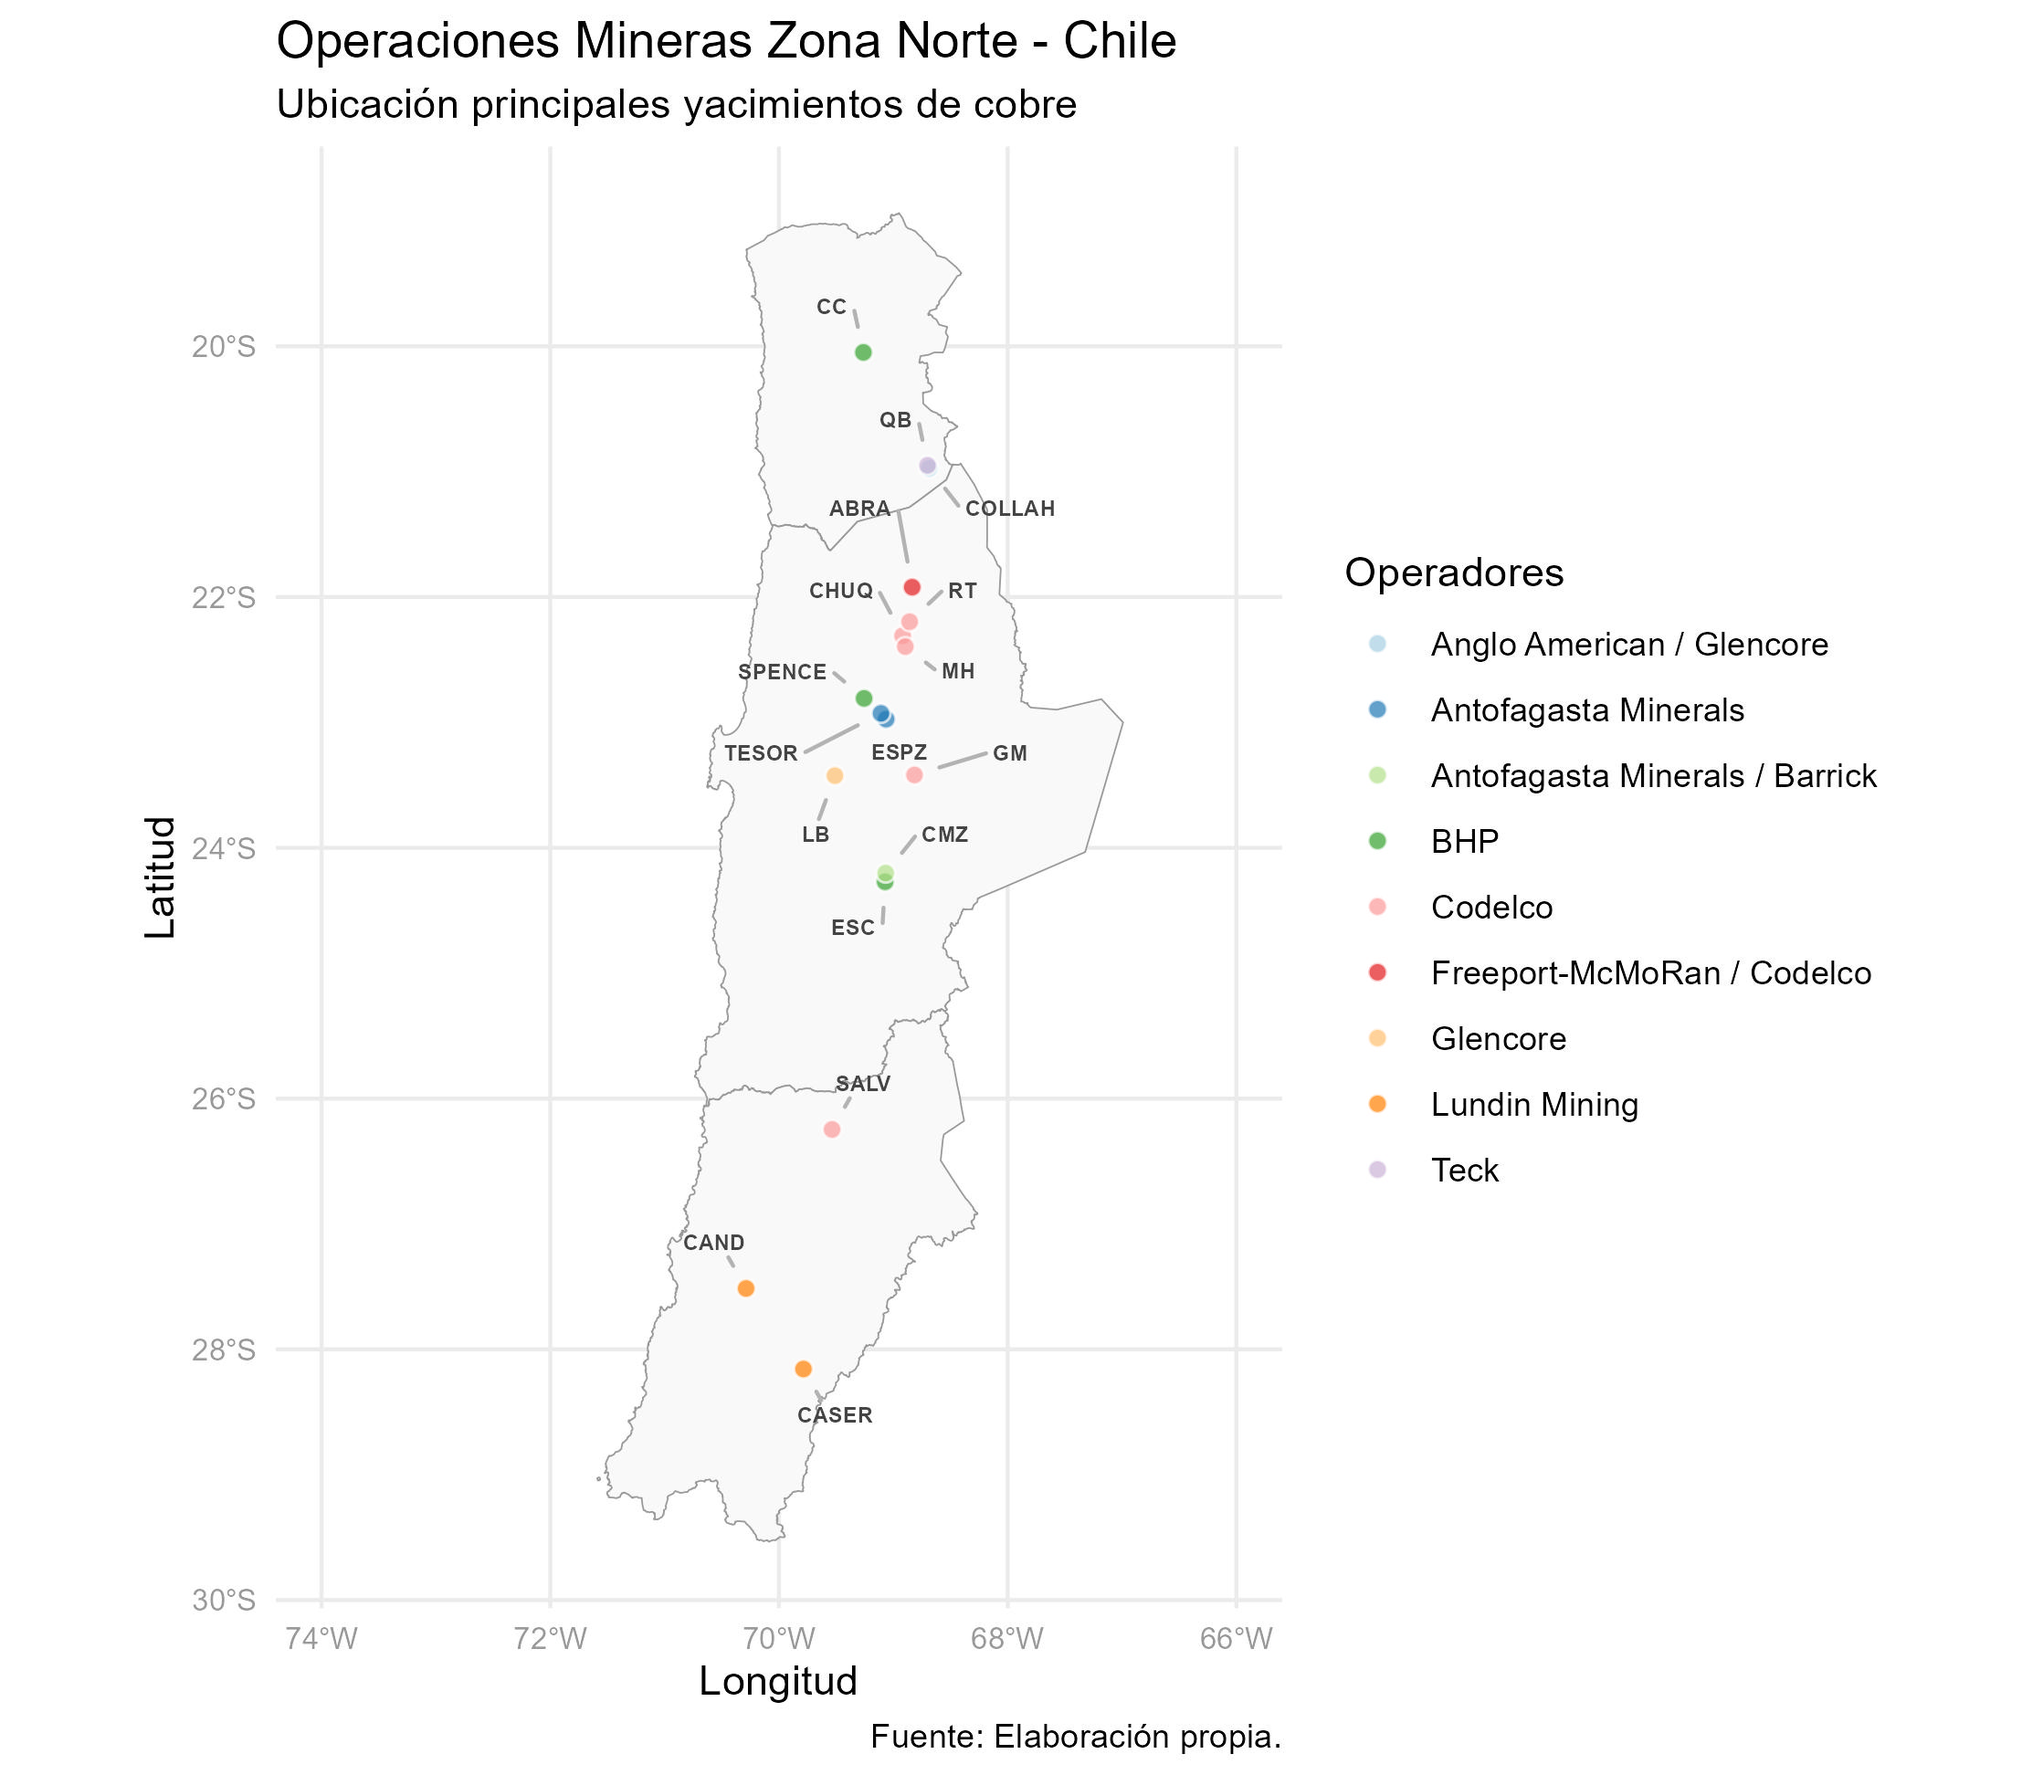
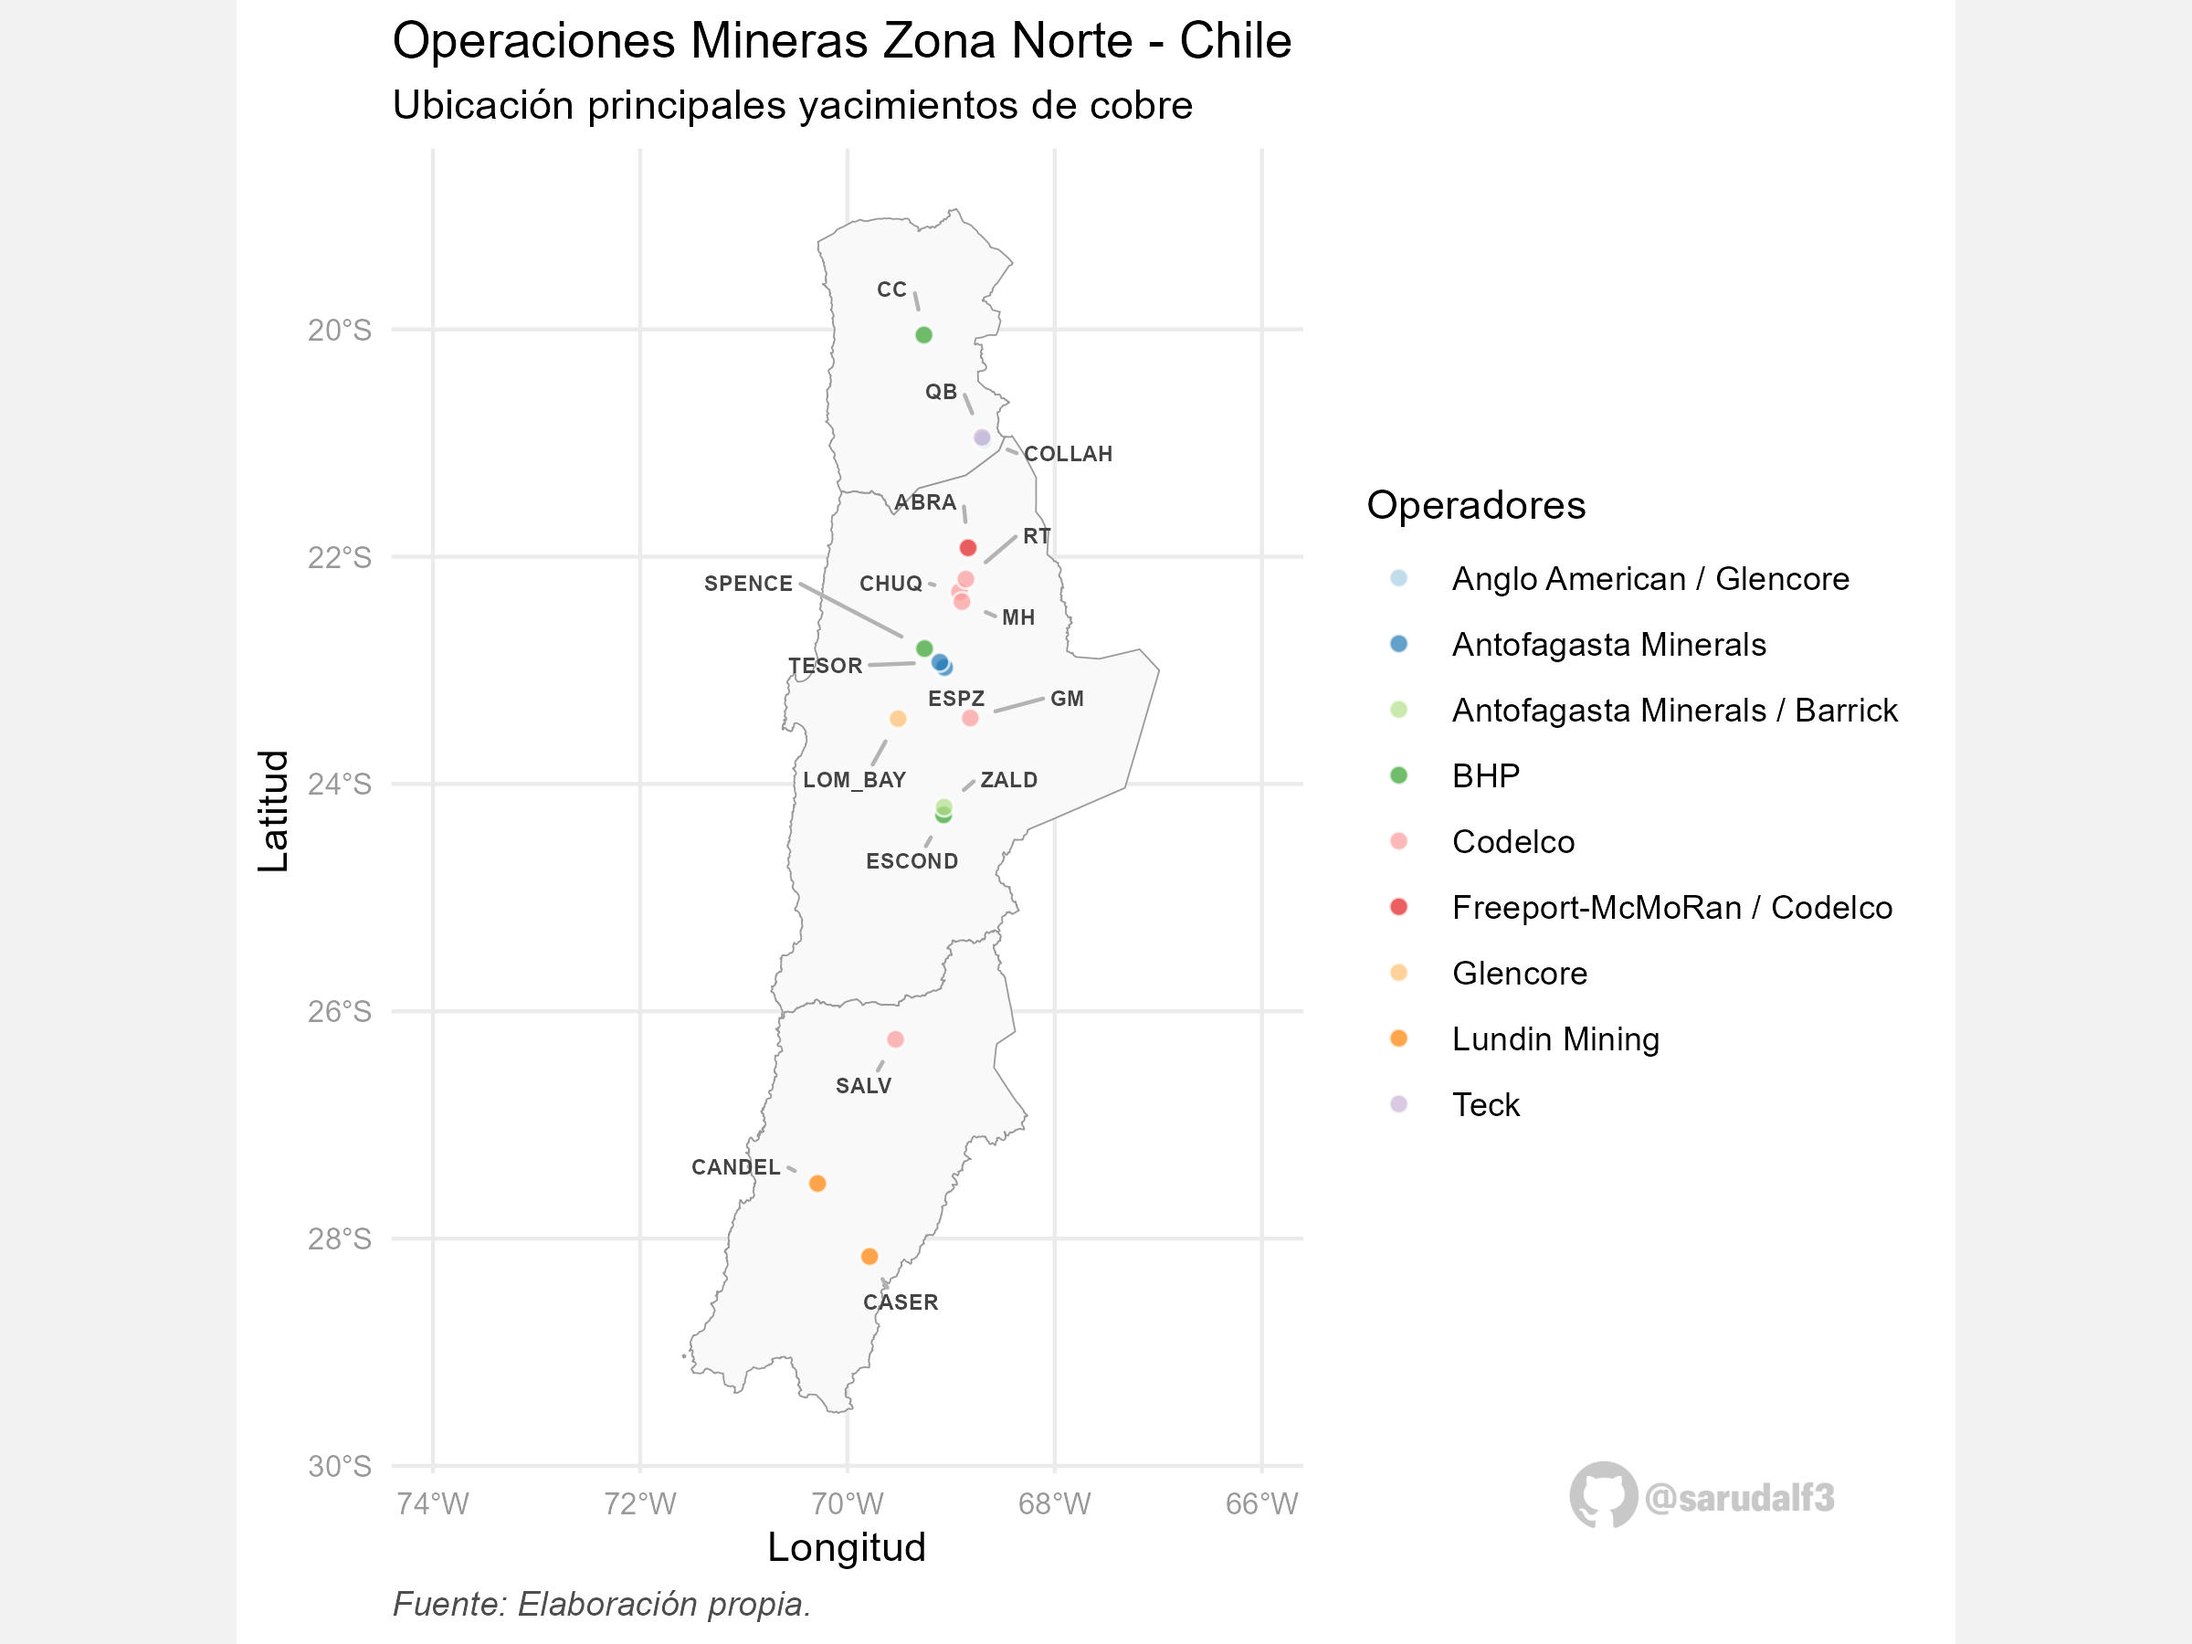
insert watermarks

diff --git a/README.md b/README.md
@@ -21,3 +21,5 @@ install.packages(c("tidyverse", "chilemapas", "readxl", "sf", "RColorBrewer", "g
 
 - Comisión Chilena del Cobre (Cochilco), sección Estadistícas > Base de Datos Electrónica (BDE) https://www.cochilco.cl
 - Pebesma, E. Bivand, R. Spatial Data Science with Applications in R https://r-spatial.org/book/
+
+### Visita mi website github https://sarudalf3.github.io/
